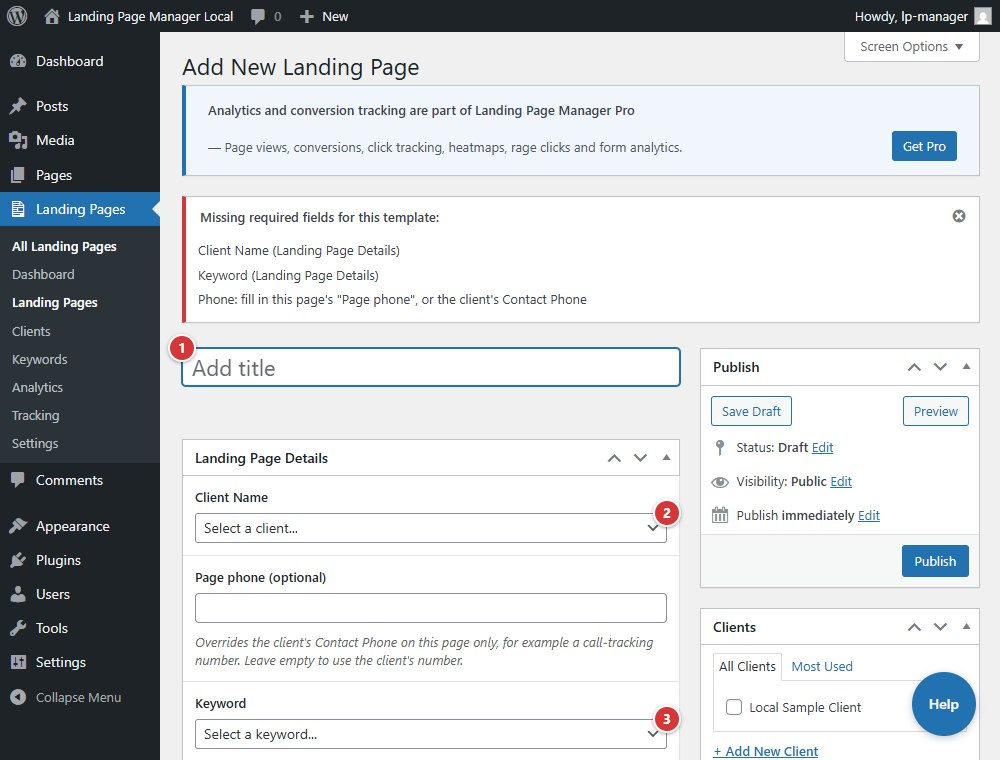
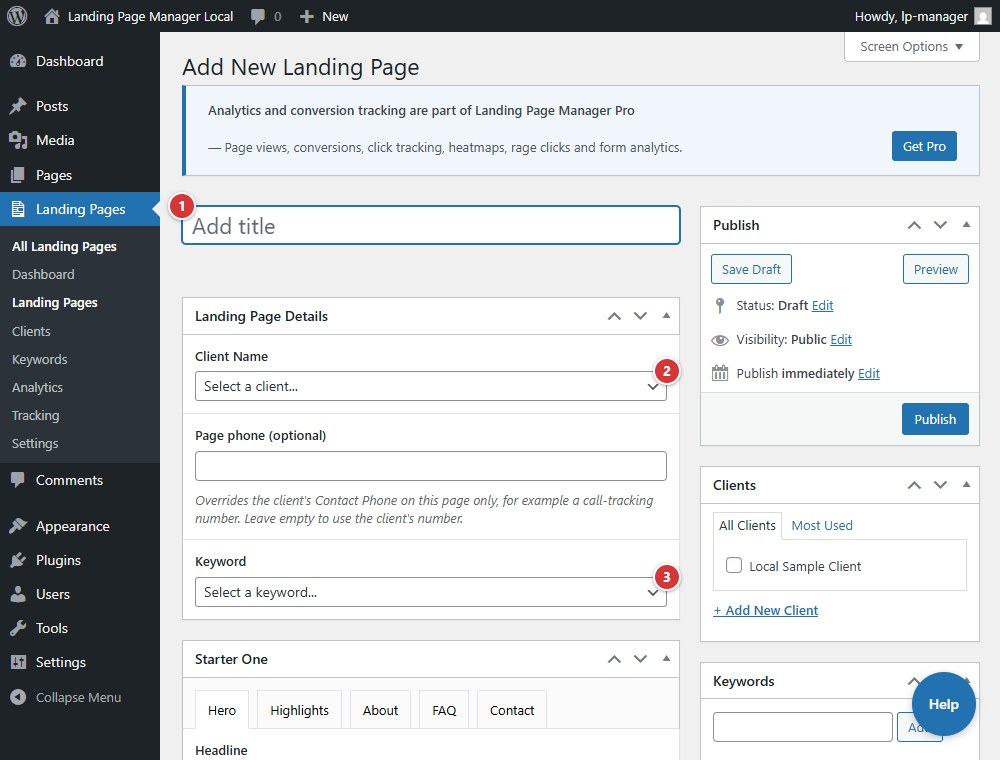
Replace the Conversion Tracking guide page with Tracking.
New guide/tracking.md and tracking.jpg for Landing Pages -> Tracking (the Settings tab was removed in 1.0.13); links, sidebar, fragments and manifest updated. landing-page-editor.jpg retaken without the old warning. Home.md's copyright line now names Duppins Technology.

diff --git a/marketing/guide/Home.md b/marketing/guide/Home.md
@@ -8,7 +8,7 @@ Landing Page Manager lets you create client-branded landing pages in WordPress, 
 2. Choose the site-wide template in [Settings: Templates](settings-templates) and optionally configure [API Keys](settings-api-keys).
 3. Add a [client](clients), complete its [details](client-editor), and add a [keyword](keywords).
 4. Create and publish a page from [Landing Pages](landing-pages) using the [Landing Page editor](landing-page-editor).
-5. Review [Analytics](analytics) and [Conversion Tracking (Pro)](settings-conversion-tracking) only on a Pro-enabled site or to see the core availability notice.
+5. Review [Analytics](analytics) and [Tracking](tracking) on a Pro-enabled site, or to see what Pro adds.
 
 ## If Help was opened on this screen
 
@@ -23,13 +23,13 @@ Landing Page Manager lets you create client-branded landing pages in WordPress, 
 | Keywords list | [Keywords](keywords#keywords) |
 | Keyword editor | [Keyword editor](keyword-editor#keyword-editor) |
 | Analytics | [Analytics](analytics#analytics) |
+| Tracking | [Tracking](tracking#tracking) |
 | Settings: Templates | [Templates](settings-templates#settings-templates) |
-| Settings: Conversion Tracking (Pro) | [Conversion Tracking](settings-conversion-tracking#settings-conversion-tracking) |
 | Settings: API Keys | [API Keys](settings-api-keys#settings-api-keys) |
 | Settings: Updates | [Updates](settings-updates#settings-updates) |
 
 Support: support@duppinstech.com | (240) 397-8221
 
-Copyright (C) 2025-2026 Odell Duppins / Duppins Technology (https://duppinstech.com)
+Copyright (C) 2025-2026 Duppins Technology (https://duppinstech.com)
 
 This guide describes the product and is not a warranty.

diff --git a/marketing/README.md b/marketing/README.md
@@ -49,7 +49,7 @@ The plugin has no published plan price or checkout URL. Product support is avail
 - `guide/landing-page-editor.md` — Shared page fields and template sections.
 - `guide/analytics.md` — Pro-gated Analytics screen.
 - `guide/settings-templates.md` — Global template selection and template upload.
-- `guide/settings-conversion-tracking.md` — Conversion Tracking (Pro) availability.
+- `guide/tracking.md` — Tracking screen (Pro conversion-tracking settings).
 - `guide/settings-api-keys.md` — Optional third-party keys and Additional Scripts.
 - `guide/settings-updates.md` — GitHub update source.
 - `guide/logs.md` — Failure checks and log locations; no plugin Logs screen exists.
@@ -69,7 +69,7 @@ The plugin has no published plan price or checkout URL. Product support is avail
 - `screenshots/admin/landing-page-editor.jpg` — New Landing Page fields.
 - `screenshots/admin/analytics.jpg` — Pro-gated Analytics menu screen.
 - `screenshots/admin/templates.jpg` — Settings → Templates.
-- `screenshots/admin/conversion-tracking.jpg` — Settings → Conversion Tracking (Pro).
+- `screenshots/admin/tracking.jpg` — Landing Pages → Tracking.
 - `screenshots/admin/api-keys.jpg` — Settings → API Keys with key values blank.
 - `screenshots/admin/updates.jpg` — Settings → Updates.
 - `screenshots/admin/deactivate.jpg` — Installed Plugins deactivation action.

diff --git a/marketing/guide/tracking.md b/marketing/guide/tracking.md
@@ -1,0 +1,24 @@
+<!-- fragment: tracking -->
+<!-- screenshot: tracking.jpg -->
+
+# Tracking
+
+**Landing Pages > Tracking** holds the conversion-tracking settings for your landing pages. The settings come from the separate Landing Page Manager Pro add-on, version 1.0.6 or later. Without Pro, the screen explains how to get conversion tracking, and the plugin tracks nothing.
+
+## Steps
+
+1. Open **Landing Pages > Tracking**.
+2. If Pro is not active, read the notice. Select **Get Pro** to learn about the add-on. The core-only screen has no tracking controls.
+3. When Pro is active, use **What is tracked** to turn each kind of tracking on or off. Conversion tracking (phone and call-button clicks) is always on.
+4. Use **Who is tracked** to exclude internal traffic and bots, honor Global Privacy Control and Do Not Track, and wait for visitor consent. Select **Save Changes** to apply.
+
+With a Pro version older than 1.0.6, this screen says where that version keeps its tracking settings. Update Pro to manage them here.
+
+![Tracking screen in core](../screenshots/admin/tracking.jpg)
+
+1. Select **Tracking** in the Landing Pages menu to open this screen.
+2. **Get Pro** opens the page about Landing Page Manager Pro.
+
+## Next
+
+[Templates](settings-templates)

diff --git a/marketing/admin-walkthrough.md b/marketing/admin-walkthrough.md
@@ -28,9 +28,9 @@ Complete the hosting/DNS prerequisite first so client subdomains can reach WordP
 | Landing Pages → Keywords | `keywords.jpg` | Add and manage page keywords. |
 | Landing Pages list | `landing-pages.jpg` | Open an editor, inspect the generated URL, or use Export CSV. |
 | Landing Page editor | `landing-page-editor.jpg` | Set title, Client Name, optional Page phone, Keyword, and template-specific fields. |
-| Landing Pages → Analytics | — | See the Analytics screen; core shows the Pro availability prompt. |
+| Landing Pages → Analytics | `analytics.jpg` | See the Analytics screen; core shows the Get Pro prompt. |
+| Landing Pages → Tracking | `tracking.jpg` | See the Tracking screen; core shows the Get Pro prompt. |
 | Settings → Templates | `templates.jpg` | Choose the global template or upload a template archive. |
-| Settings → Conversion Tracking (Pro) | `conversion-tracking.jpg` | See the Pro analytics availability prompt in core. |
 | Settings → API Keys | `api-keys.jpg` | Configure optional Google Maps and Brandfetch keys and Additional Scripts. |
 | Settings → Updates | `updates.jpg` | Read the GitHub update-source information. |
 

diff --git a/marketing/guide/_Sidebar.md b/marketing/guide/_Sidebar.md
@@ -19,11 +19,11 @@
 ** After publish
 
 * [Analytics](analytics)
+* [Tracking](tracking)
 
 ** Settings and recovery
 
 * [Templates](settings-templates)
-* [Conversion Tracking](settings-conversion-tracking)
 * [API Keys](settings-api-keys)
 * [Updates](settings-updates)
 * [Logs and failures](logs)

diff --git a/marketing/guide/analytics.md b/marketing/guide/analytics.md
@@ -17,4 +17,4 @@
 
 ## Next
 
-[Conversion Tracking](settings-conversion-tracking)
+[Tracking](tracking)
